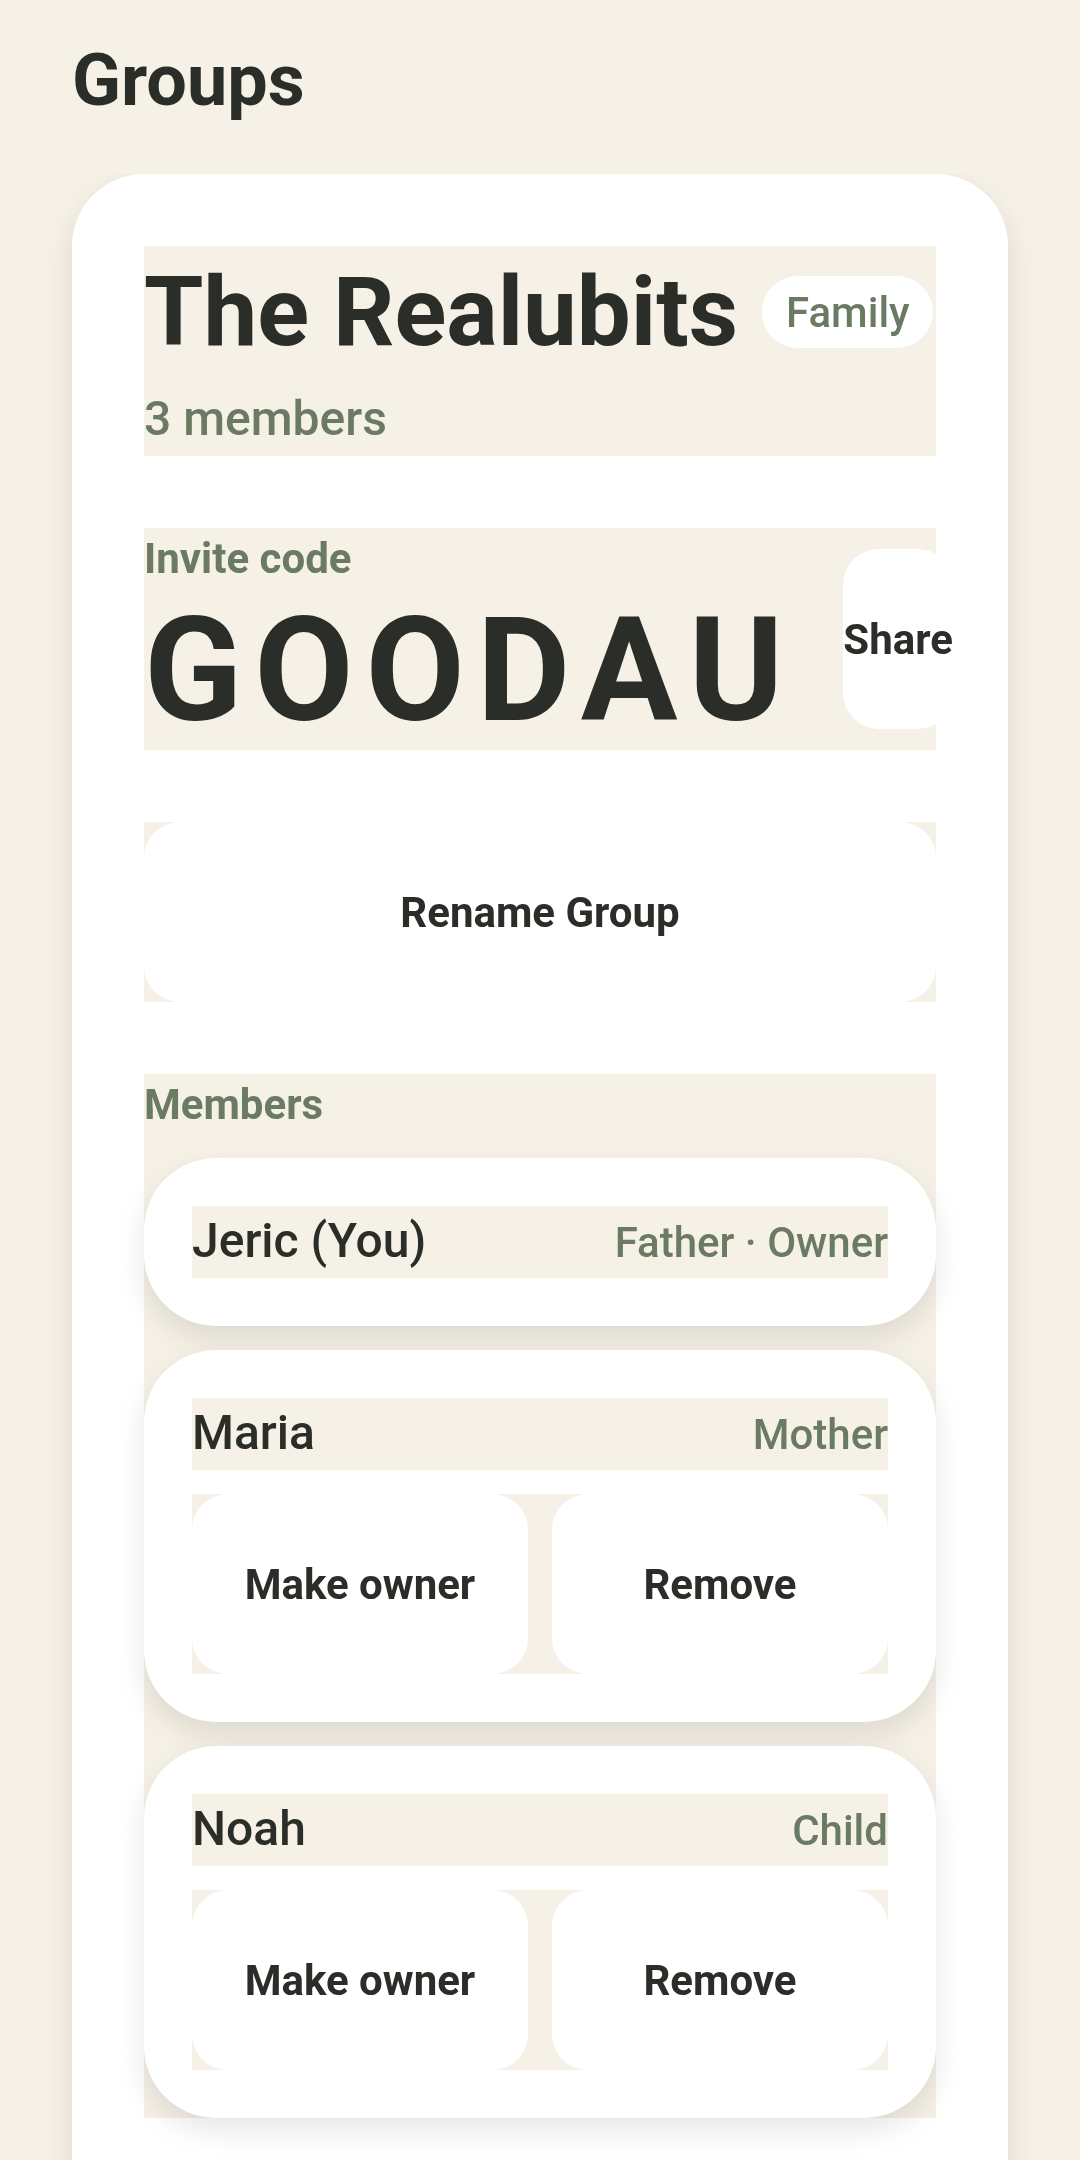
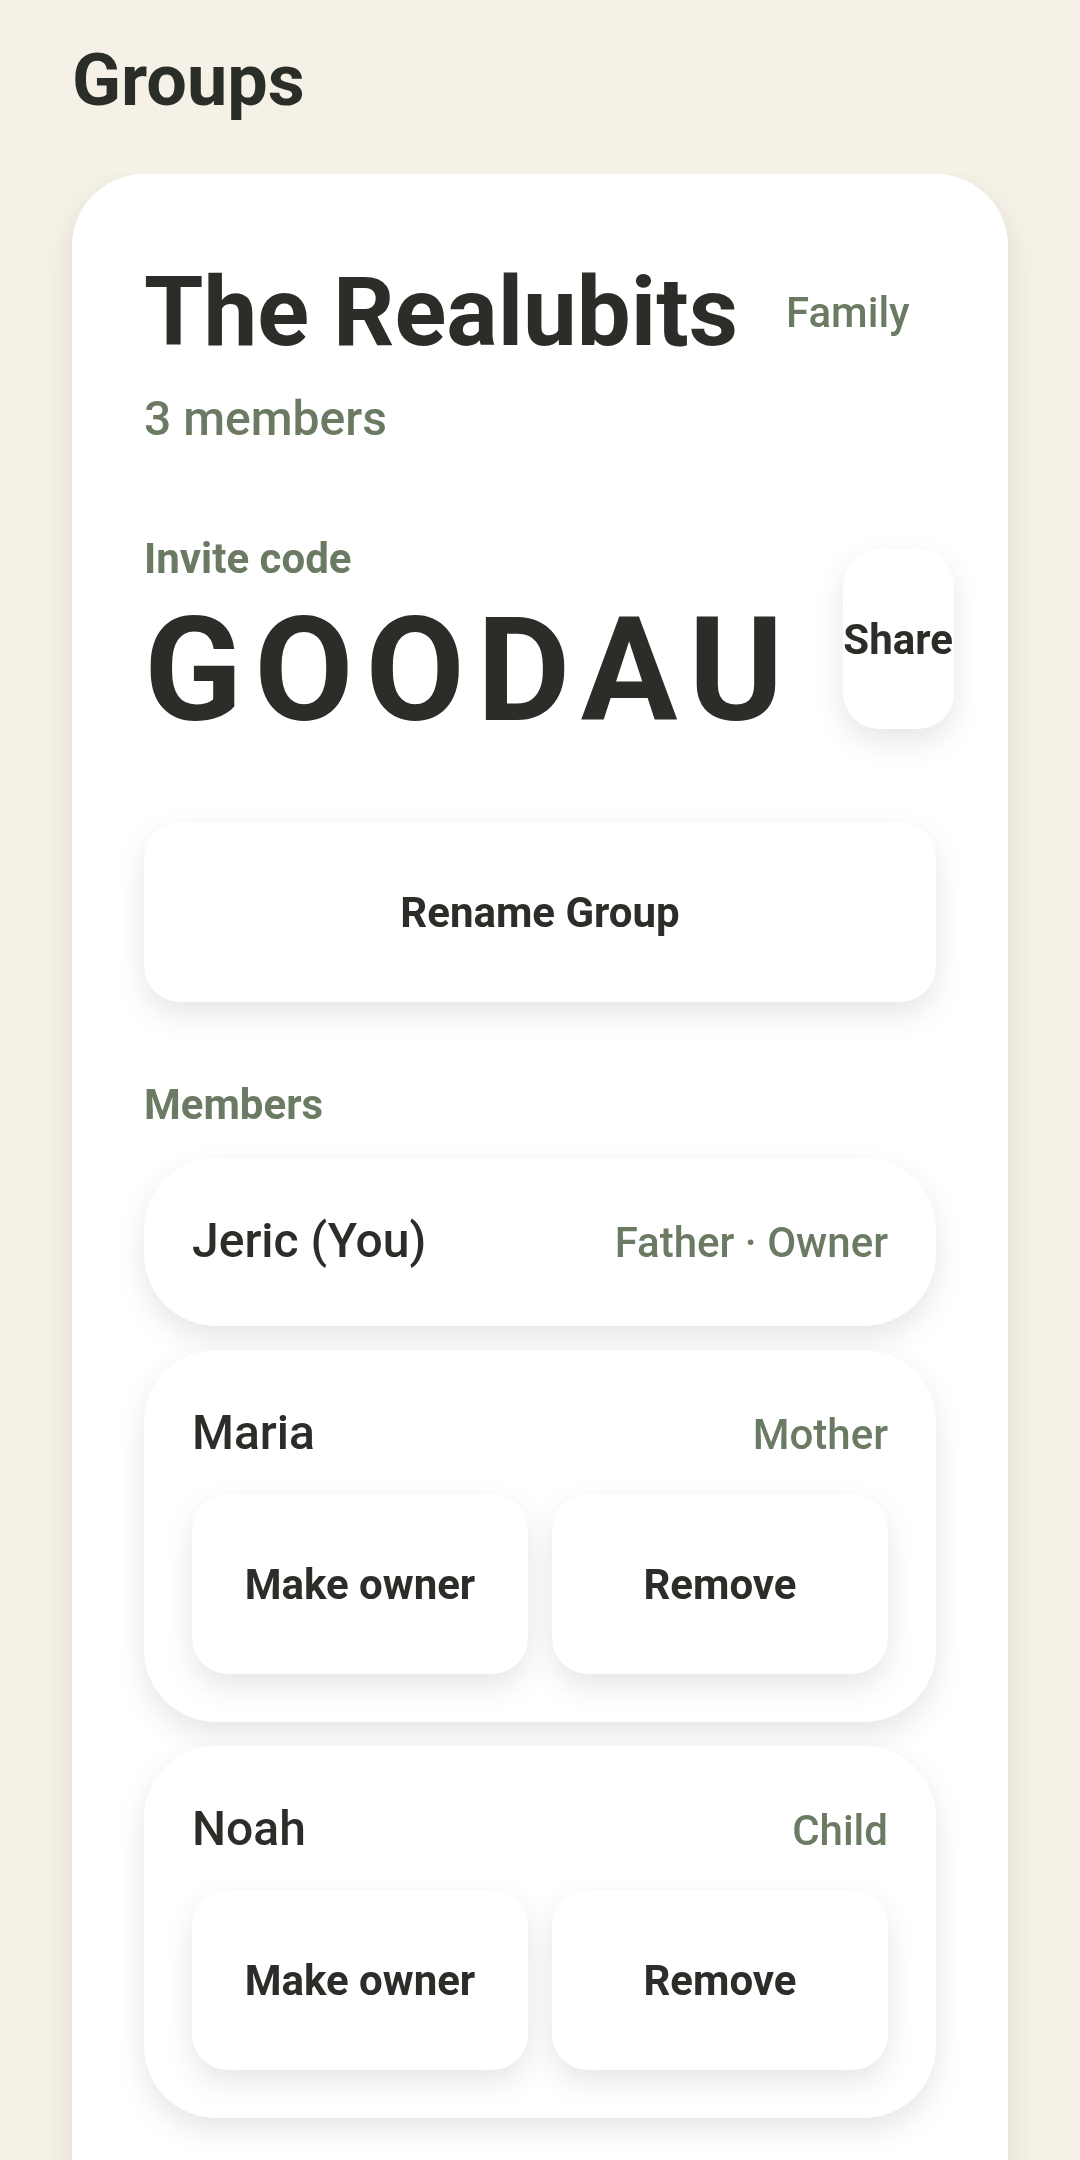
Stop the group card banding, and give secondary buttons an edge
Two coupled styling bugs, both visible on Android rather than web-only.
Neither could be fixed alone: the first one's fix is what exposed the second.

GroupCard built its layout out of ThemedView, which always applies
backgroundColor: theme[type ?? 'background']. Inside the white card that
repainted the beige screen background over it in horizontal bands. Those
wrappers are plain View now; ThemedView stays where a surface is actually
wanted — the card itself, the mode pill, the member and confirm cards.

That alone made things worse, which is why it was reverted the first time.
PrimaryButton variant="secondary" fills with backgroundElement, the same
colour as a card, and set no border and no shadow — so once the bands were
gone, Share, Rename Group, Make owner and Remove had no boundary at all and
read as plain text. The variant now takes useSurfaceStyle('sm'), the same
treatment cards already use, so it gets elevation on the elevated design
styles and a border on the bordered ones. That also fixes Swiss Monochrome
and Brutalist, where tokens.borderWidth is 1 and 3 but the button never
applied it.

The result matches docs/user-guide/images/11-invite-code.png, which is what
the screen was always meant to look like. Re-measured after the change, the
Share button still fits at 360, 393 and 412dp, and the other four store
screenshots are unchanged apart from History's "Delete all", which gains the
same edge.
[…]

diff --git a/src/components/group-card.tsx b/src/components/group-card.tsx
@@ -1,6 +1,6 @@
 import { useQueryClient } from '@tanstack/react-query';
 import { useState } from 'react';
-import { Share, StyleSheet } from 'react-native';
+import { Share, StyleSheet, View } from 'react-native';
 
 import { PrimaryButton } from '@/components/primary-button';
 import { useSurfaceStyle } from '@/components/surface';
@@ -81,8 +81,8 @@ export function GroupCard({ group, currentUserId, isOnline }: GroupCardProps) {
 
   return (
     <ThemedView style={[cardStyle, styles.card]}>
-      <ThemedView style={styles.header}>
-        <ThemedView style={styles.titleRow}>
+      <View style={styles.header}>
+        <View style={styles.titleRow}>
           <ThemedText type="subtitle" numberOfLines={1} style={styles.groupName}>
             {group.name}
           </ThemedText>
@@ -91,34 +91,34 @@ export function GroupCard({ group, currentUserId, isOnline }: GroupCardProps) {
               {modeLabel(group.mode)}
             </ThemedText>
           </ThemedView>
-        </ThemedView>
+        </View>
         <ThemedText themeColor="textSecondary">
           {group.members.length} {group.members.length === 1 ? 'member' : 'members'}
         </ThemedText>
-      </ThemedView>
+      </View>
 
-      <ThemedView style={styles.inviteRow}>
-        <ThemedView style={styles.inviteText}>
+      <View style={styles.inviteRow}>
+        <View style={styles.inviteText}>
           <ThemedText type="smallBold" themeColor="textSecondary">
             Invite code
           </ThemedText>
           <ThemedText type="title" style={styles.inviteCode}>
             {group.invite_code}
           </ThemedText>
-        </ThemedView>
+        </View>
         <PrimaryButton
           title="Share"
           variant="secondary"
           onPress={() => Share.share({ message: `Join my group on Goodlist: ${group.invite_code}` })}
         />
-      </ThemedView>
+      </View>
 
       {isOwner ? (
-        <ThemedView style={styles.section}>
+        <View style={styles.section}>
           {renaming ? (
-            <ThemedView style={styles.renameRow}>
+            <View style={styles.renameRow}>
               <TextField label="Group name" value={renameValue} onChangeText={setRenameValue} placeholder="Group name" />
-              <ThemedView style={styles.inlineButtons}>
+              <View style={styles.inlineButtons}>
                 <PrimaryButton
                   title="Save"
                   onPress={handleRename}
@@ -133,15 +133,15 @@ export function GroupCard({ group, currentUserId, isOnline }: GroupCardProps) {
                   disabled={actionLoading}
                   style={styles.inlineButton}
                 />
-              </ThemedView>
-            </ThemedView>
+              </View>
+            </View>
           ) : (
             <PrimaryButton title="Rename Group" variant="secondary" onPress={startRenaming} disabled={!isOnline} />
           )}
-        </ThemedView>
+        </View>
       ) : null}
 
-      <ThemedView style={styles.section}>
+      <View style={styles.section}>
         <ThemedText type="smallBold" themeColor="textSecondary">
           Members
         </ThemedText>
@@ -154,7 +154,7 @@ export function GroupCard({ group, currentUserId, isOnline }: GroupCardProps) {
 
           return (
             <ThemedView key={member.user_id} style={[cardStyle, styles.memberCard]}>
-              <ThemedView style={styles.memberRow}>
+              <View style={styles.memberRow}>
                 <ThemedText>
                   {name}
                   {isSelf ? ' (You)' : ''}
@@ -164,10 +164,10 @@ export function GroupCard({ group, currentUserId, isOnline }: GroupCardProps) {
                     {tags}
                   </ThemedText>
                 ) : null}
-              </ThemedView>
+              </View>
 
               {isOwner && !isSelf ? (
-                <ThemedView style={styles.memberActions}>
+                <View style={styles.memberActions}>
                   <PrimaryButton
                     title="Make owner"
                     variant="secondary"
@@ -188,12 +188,12 @@ export function GroupCard({ group, currentUserId, isOnline }: GroupCardProps) {
                     disabled={!isOnline}
                     style={styles.inlineButton}
                   />
-                </ThemedView>
+                </View>
               ) : null}
             </ThemedView>
           );
         })}
-      </ThemedView>
+      </View>
 
       {pending ? (
         <ThemedView style={[cardStyle, styles.confirmCard]}>
@@ -209,7 +209,7 @@ export function GroupCard({ group, currentUserId, isOnline }: GroupCardProps) {
               {actionError}
             </ThemedText>
           ) : null}
-          <ThemedView style={styles.inlineButtons}>
+          <View style={styles.inlineButtons}>
             <PrimaryButton
               title="Confirm"
               variant={pending.type === 'transfer' ? 'primary' : 'danger'}
@@ -228,10 +228,10 @@ export function GroupCard({ group, currentUserId, isOnline }: GroupCardProps) {
               disabled={actionLoading}
               style={styles.inlineButton}
             />
-          </ThemedView>
+          </View>
         </ThemedView>
       ) : (
-        <ThemedView style={styles.section}>
+        <View style={styles.section}>
           {actionError ? (
             <ThemedText type="small" themeColor="danger">
               {actionError}
@@ -246,12 +246,15 @@ export function GroupCard({ group, currentUserId, isOnline }: GroupCardProps) {
             }}
             disabled={!isOnline}
           />
-        </ThemedView>
+        </View>
       )}
     </ThemedView>
   );
 }
 
+// These wrappers are layout only, so they are plain <View>. As <ThemedView>
+// they each applied backgroundColor: theme[type ?? 'background'], which
+// repainted the beige screen background over the white card in bands.
 const styles = StyleSheet.create({
   card: {
     padding: Spacing.four,

diff --git a/src/components/primary-button.tsx b/src/components/primary-button.tsx
@@ -1,5 +1,6 @@
 import { ActivityIndicator, Pressable, StyleSheet, type ViewStyle } from 'react-native';
 
+import { useSurfaceStyle } from '@/components/surface';
 import { ThemedText } from '@/components/themed-text';
 import { useTheme } from '@/hooks/use-theme';
 import { useTokens } from '@/hooks/use-tokens';
@@ -23,6 +24,11 @@ export function PrimaryButton({
 }: PrimaryButtonProps) {
   const theme = useTheme();
   const tokens = useTokens();
+  // A secondary button is filled with backgroundElement — the same colour as a
+  // card. On top of one it would have no edge at all, so it takes the active
+  // design style's surface treatment (border for the bordered styles, shadow
+  // for the elevated ones) and reads as a raised control on any background.
+  const surfaceStyle = useSurfaceStyle('sm');
   const isDisabled = disabled || loading;
 
   const backgroundColor =
@@ -38,6 +44,7 @@ export function PrimaryButton({
       accessibilityState={{ disabled: isDisabled, busy: loading }}
       style={({ pressed }) => [
         styles.button,
+        variant === 'secondary' ? surfaceStyle : null,
         {
           backgroundColor,
           borderRadius: tokens.radii.sm,

diff --git a/docs/play-store-deployment.md b/docs/play-store-deployment.md
@@ -238,22 +238,26 @@ A phone screenshot at 1080x2400 or taller is past the 2:1 cap, so crop to 1080x2
 uploading. The `docs/user-guide/images/*.png` are illustrations at 780x1688 (1:2.16, also past the
 cap) and are not a substitute.
 
-#### Two styling bugs found while doing this — not fixed, your call
+#### Two styling bugs found while doing this — now fixed
 
-Both are real and visible on Android, not web artifacts. They are coupled, so fixing one alone makes
-things worse:
+Both were real and visible on Android, not web artifacts, and they were coupled: fixing either alone
+made things worse.
 
-1. **`src/components/group-card.tsx` bands the card.** Its layout wrappers are `ThemedView`, which
-   always applies `backgroundColor: theme[type ?? 'background']`. Inside the white card that repaints
-   the beige screen background (`#F5F1E6`) over it, in horizontal bands. `docs/user-guide/images/11-invite-code.png`
-   shows the intended look — an unbanded white card. The fix is to make those wrappers plain `View`.
-2. **Secondary buttons are invisible on a white surface.** `PrimaryButton` with `variant="secondary"`
-   fills with `theme.backgroundElement` (`#FFFFFF`) and sets no border and no shadow. On the white
-   group card, Share / Rename Group / Make owner / Remove have no edge at all — they only read as
-   buttons today *because* of the banding in (1). Fixing (1) without giving the secondary variant a
-   border or elevation turns every one of those buttons into plain text.
+1. **`src/components/group-card.tsx` banded the card.** Its layout wrappers were `ThemedView`, which
+   always applies `backgroundColor: theme[type ?? 'background']`. Inside the white card that
+   repainted the beige screen background (`#F5F1E6`) over it in horizontal bands. They are plain
+   `View` now — `ThemedView` is kept only where a surface is actually wanted (the card itself, the
+   mode pill, member and confirm cards).
+2. **Secondary buttons had no edge on a white surface.** `PrimaryButton` with `variant="secondary"`
+   fills with `theme.backgroundElement` (`#FFFFFF`) and set no border and no shadow, so on the white
+   group card Share / Rename Group / Make owner / Remove had no boundary at all — they only read as
+   buttons *because* of the banding in (1). The variant now takes `useSurfaceStyle('sm')`, the same
+   treatment cards use, so it picks up a border on the bordered design styles and elevation on the
+   elevated ones. That also fixes it on Swiss Monochrome and Brutalist, where `tokens.borderWidth` is
+   1 and 3 but the button never applied it.
 
-The screenshot ships with the banding, because that is what the app currently looks like.
+The result matches `docs/user-guide/images/11-invite-code.png`, which is what the screen was always
+meant to look like. Re-measured afterwards, the Share button still fits at 360, 393 and 412dp.
 
 ### B7. ~~The feature graphic has an alpha channel~~ — **fixed**
 
